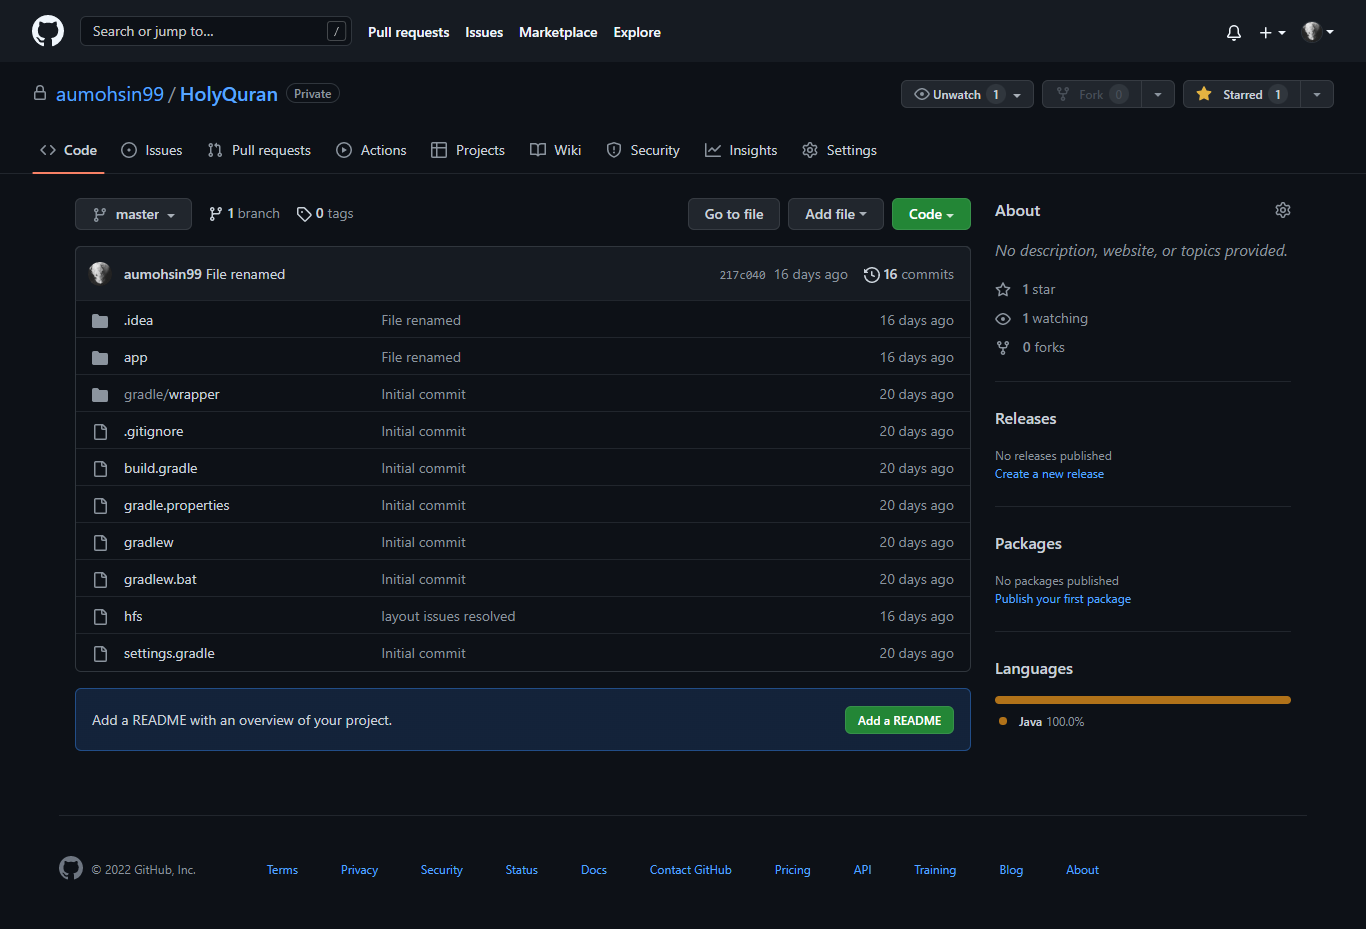
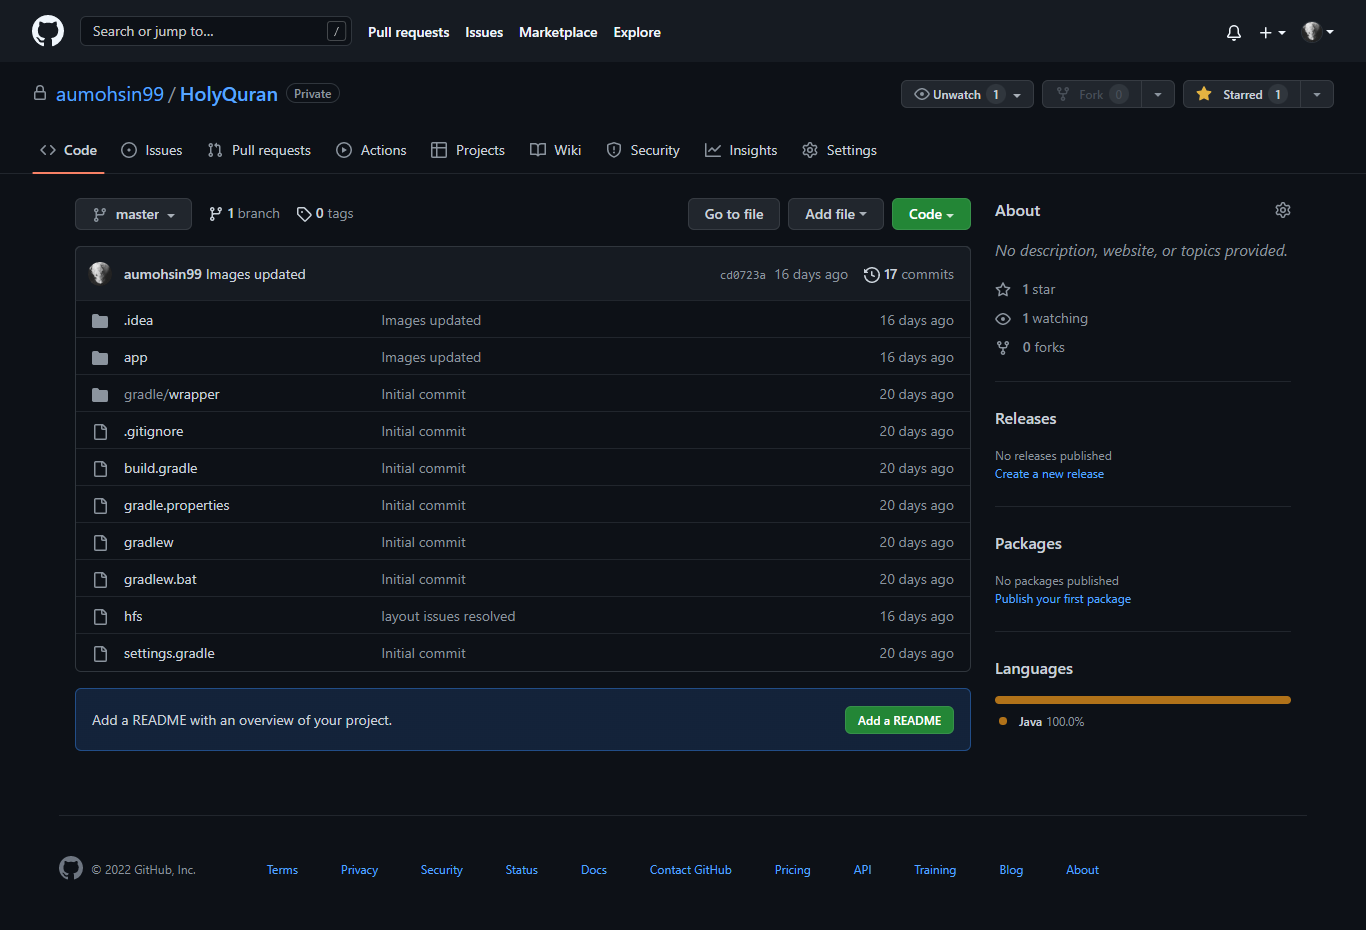
images updates for HQ App

diff --git a/quranapp.html b/quranapp.html
@@ -45,7 +45,7 @@
               <p>Holy Quran Application created using SQLite Database</p>
               <p>
                 First commit was on <b>August 23, 2022</b> recent commit is on
-                <b>August 27, 2022</b>. It has total of <b>16</b> commits.
+                <b>August 27, 2022</b>. It has total of <b>17</b> commits.
               </p>
               <blockquote>
                 <p>
